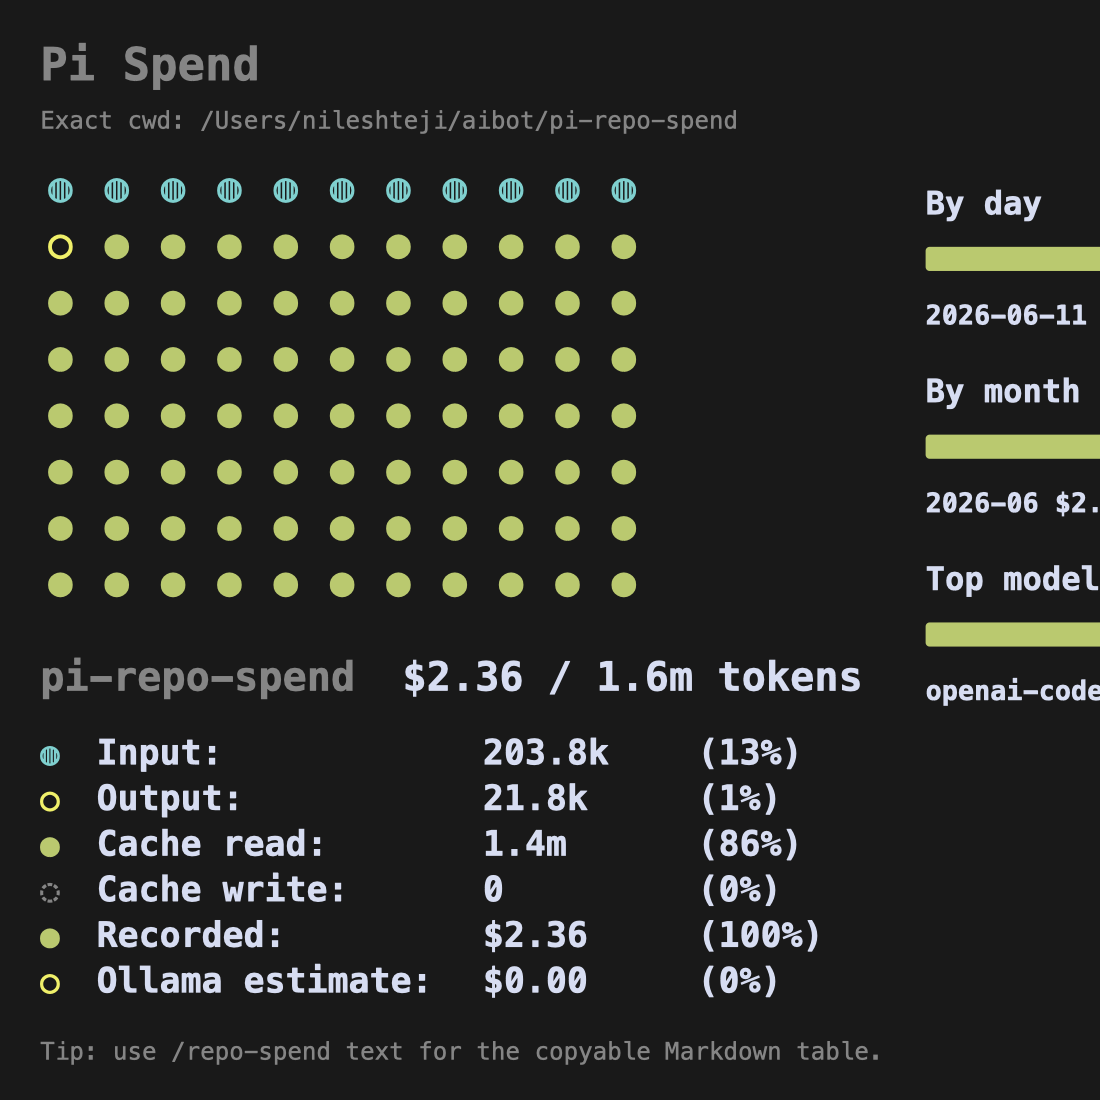
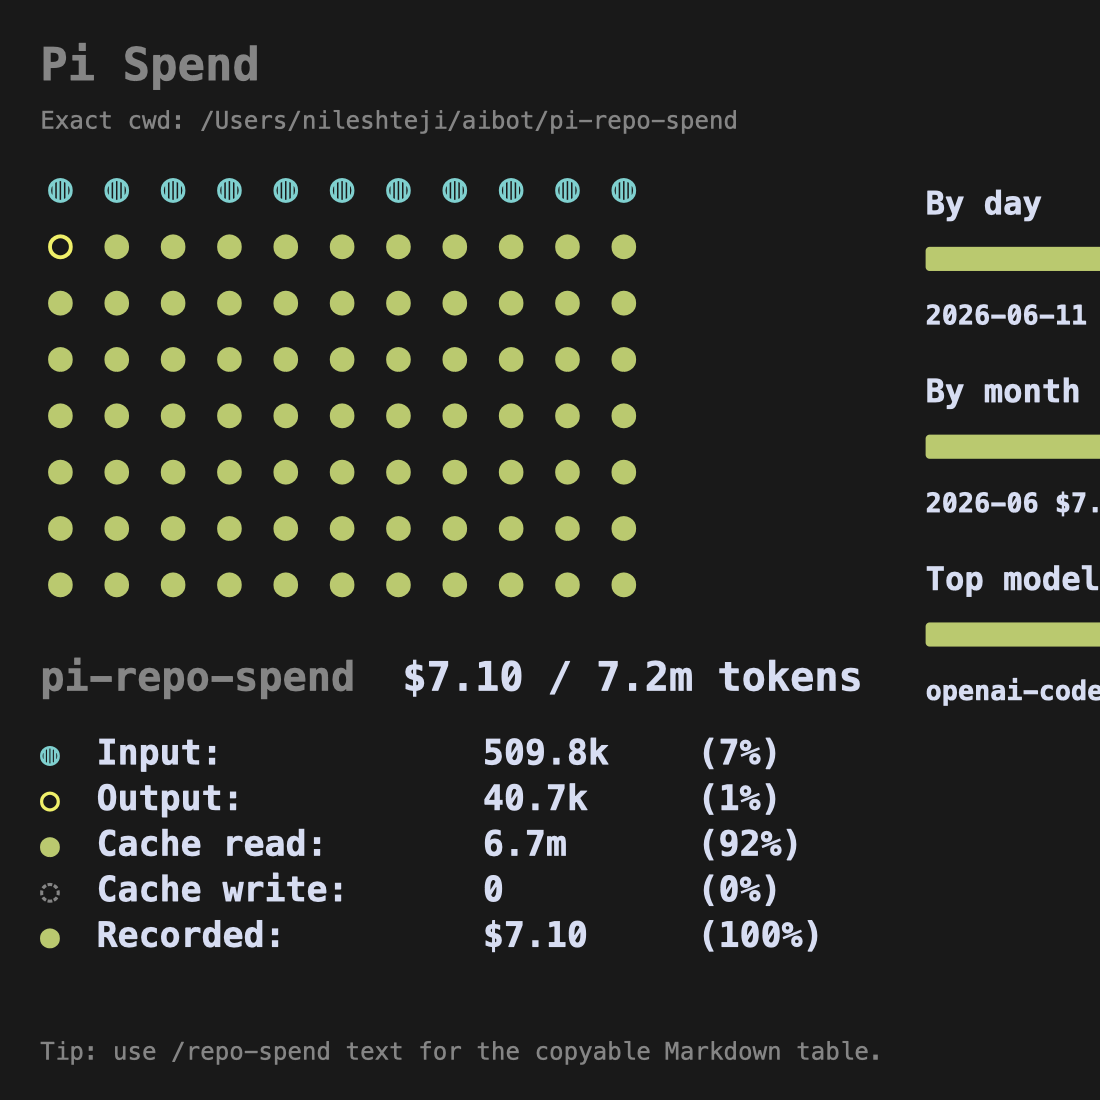
Hide Ollama estimate in dashboard

diff --git a/index.ts b/index.ts
@@ -569,20 +569,26 @@ class SpendDashboard implements Component {
 		return `${th.fg(color, symbol)} ${padAnsi(`${label}:`, 17)} ${th.bold(value.padStart(9))} ${th.fg("muted", `(${pct})`)}`;
 	}
 
-	private sectionRows(title: string, rows: Array<TimeBucketTotals | ModelTotals>, maxRows: number): string[] {
+	private sectionRows(
+		title: string,
+		rows: Array<TimeBucketTotals | ModelTotals>,
+		maxRows: number,
+		costOf: (row: TimeBucketTotals | ModelTotals) => number = (row) => row.recordedCost
+	): string[] {
 		if (rows.length === 0) return [];
 		const th = this.theme;
 		const visible = rows.slice(0, maxRows);
-		const max = Math.max(...visible.map(totalCost), ...visible.map((row) => row.totalTokens / MILLION), 0.000001);
+		const max = Math.max(...visible.map(costOf), ...visible.map((row) => row.totalTokens / MILLION), 0.000001);
 		const labelFor = (row: TimeBucketTotals | ModelTotals) =>
 			"period" in row ? row.period : row.model === "*" ? row.provider : `${row.provider}/${row.model}`;
 		const labelWidth = Math.min(26, Math.max(title.length, ...visible.map((row) => labelFor(row).length)));
 		const lines = ["", th.bold(title)];
 		for (const row of visible) {
 			const label = labelFor(row);
-			const score = totalCost(row) > 0 ? totalCost(row) : row.totalTokens / MILLION;
+			const cost = costOf(row);
+			const score = cost > 0 ? cost : row.totalTokens / MILLION;
 			lines.push(
-				`${truncateToWidth(label, labelWidth).padEnd(labelWidth)}  ${renderBar(score, max, 14, th, totalCost(row) > 0 ? "success" : "accent")}  ${fmtMoney(totalCost(row)).padStart(8)}  ${fmtCompact(row.totalTokens).padStart(7)} tok`
+				`${truncateToWidth(label, labelWidth).padEnd(labelWidth)}  ${renderBar(score, max, 14, th, cost > 0 ? "success" : "accent")}  ${fmtMoney(cost).padStart(8)}  ${fmtCompact(row.totalTokens).padStart(7)} tok`
 			);
 		}
 		if (rows.length > maxRows) lines.push(th.fg("dim", `… ${rows.length - maxRows} more`));
@@ -593,8 +599,8 @@ class SpendDashboard implements Component {
 		const th = this.theme;
 		const total = this.result.totals;
 		const totalTokens = total.totalTokens || total.input + total.output + total.cacheRead + total.cacheWrite;
-		const totalSpend = totalCost(total);
-		const costMax = Math.max(total.recordedCost, total.estimatedCost, totalSpend, 0.000001);
+		const totalSpend = total.recordedCost;
+		const costMax = Math.max(total.recordedCost, 0.000001);
 		const lines: string[] = [];
 
 		lines.push(th.bold("Pi Spend"));
@@ -610,7 +616,6 @@ class SpendDashboard implements Component {
 		lines.push(this.legendLine("◌", "Cache write", fmtCompact(total.cacheWrite), percent(total.cacheWrite, totalTokens), "muted"));
 		lines.push("");
 		lines.push(`${th.fg("success", "●")} ${padAnsi("Recorded:", 17)} ${renderBar(total.recordedCost, costMax, 14, th, "success")} ${th.bold(fmtMoney(total.recordedCost))}`);
-		lines.push(`${th.fg("warning", "○")} ${padAnsi("Ollama estimate:", 17)} ${renderBar(total.estimatedCost, costMax, 14, th, "warning")} ${th.bold(fmtMoney(total.estimatedCost))}`);
 		lines.push("");
 		lines.push(tableLine([th.fg("accent", "Sessions"), th.fg("accent", "Calls"), th.fg("accent", "Providers"), th.fg("accent", "Models")], [10, 8, 10, 8]));
 		lines.push(tableLine([fmtInt(this.result.filesIncluded), fmtInt(total.calls), fmtInt(this.result.byProvider.length), fmtInt(this.result.byModel.length)], [10, 8, 10, 8]));
@@ -620,7 +625,7 @@ class SpendDashboard implements Component {
 			lines.push(...this.sectionRows("By month", this.result.byMonth, 6));
 		}
 		lines.push(...this.sectionRows("Top providers", this.result.byProvider, 5));
-		lines.push(...this.sectionRows("Top models", this.result.byModel, 5));
+		lines.push(...this.sectionRows("Top models", this.result.byModel, 5, totalCost));
 		lines.push("");
 		lines.push(th.fg("dim", "Tip: use /repo-spend text for the copyable Markdown table."));
 